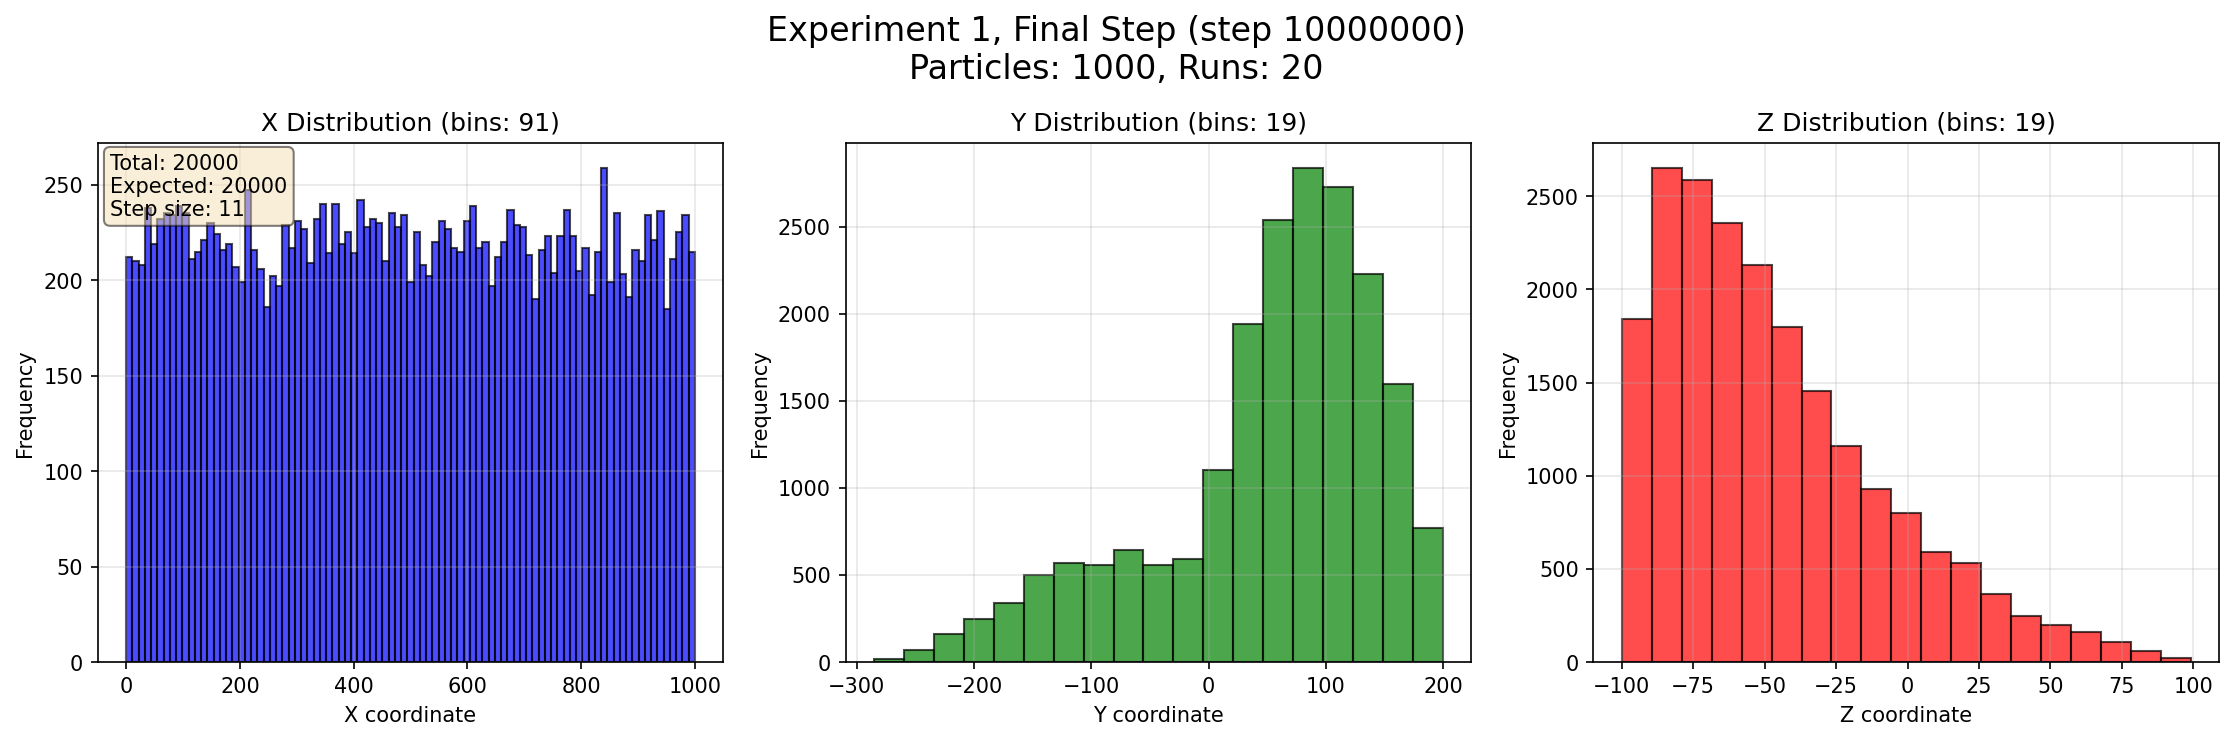
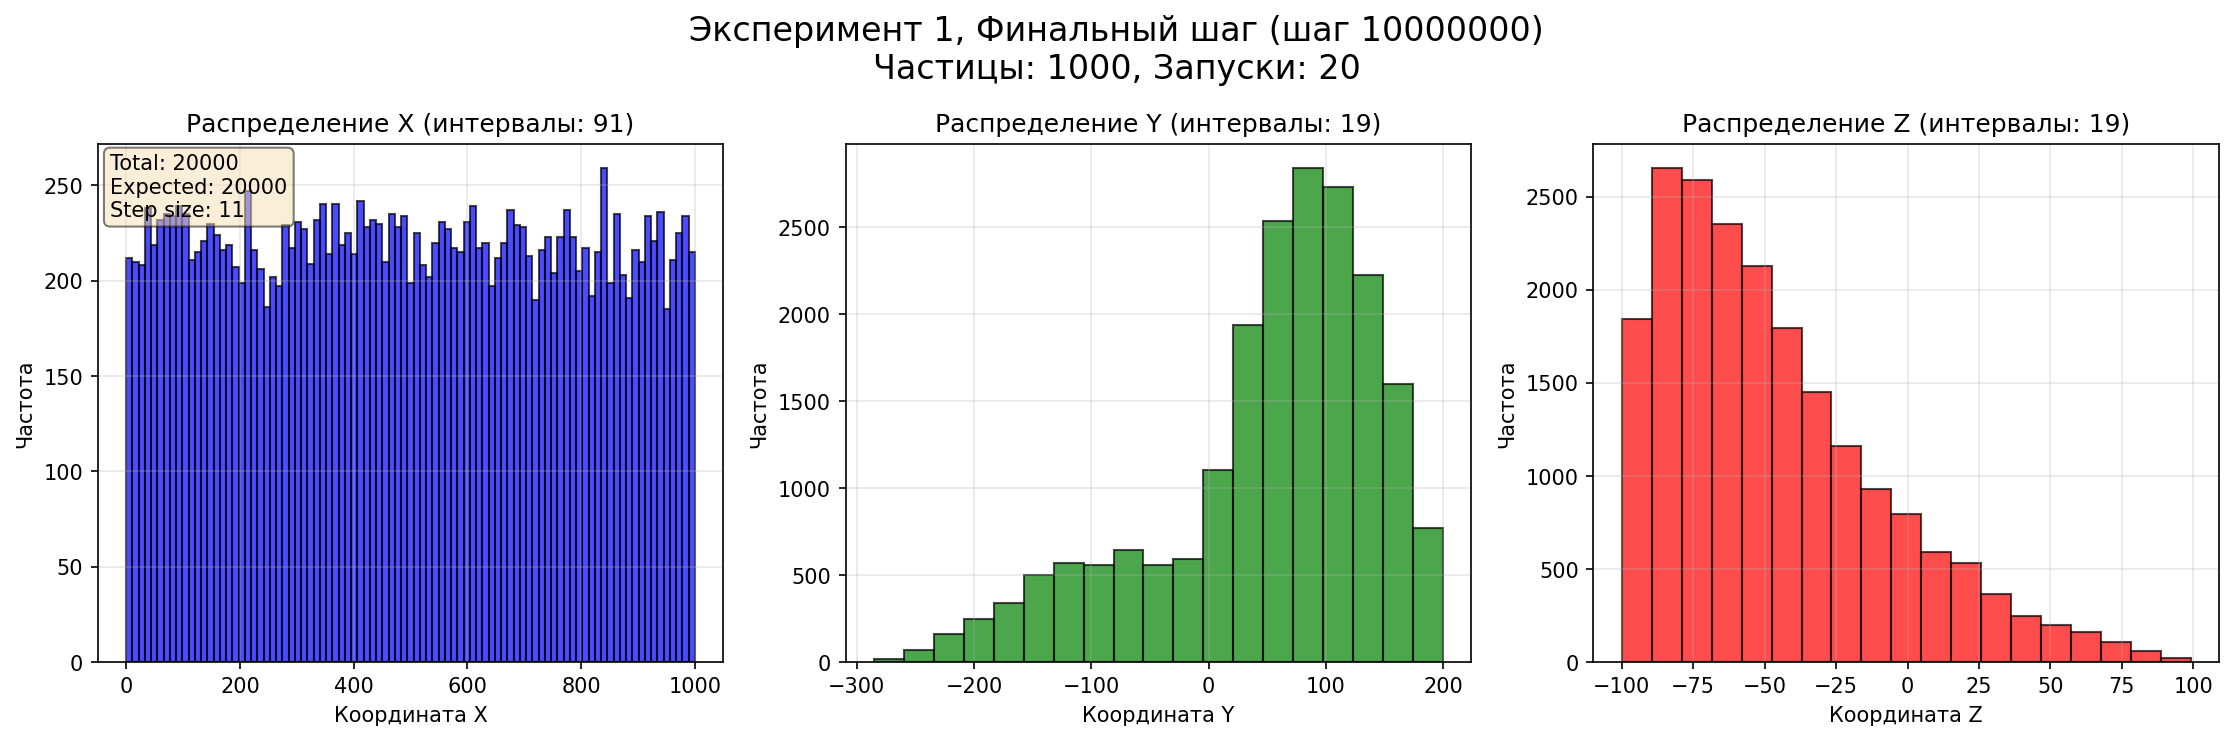
refactor(histogram): rename function and parameterize histogram creation
- Rename `create_histogram` to `create_histogram_with_params` for clarity
- Make all configuration parameters explicit function arguments instead of using global variables
- Change histogram loop to process steps in increments of 100,000 instead of every step
- Update plot labels from English to Russian
- Add error handling to skip failed steps silently

diff --git a/Statistics/Histogramm.py b/Statistics/Histogramm.py
@@ -71,12 +71,12 @@ def calculate_bins_count(min_val, max_val, step_size):
     return max(1, bins_count)  # минимум 1 интервал
 
 
-def create_histogram(step):
+def create_histogram_with_params(step, exp_id, particles_cnt, all_tries, mn_x, mx_x, mn_y, mx_y, mn_z, mx_z, cat_len):
     """
-    Строит гистограмму для указанного шага эксперимента
+    Строит гистограмму для указанного шага эксперимента с передаваемыми параметрами
     """
     # Создаем директорию для сохранения, если её нет
-    save_dir = f"../images/Experiment_{experiment_id}/Hist"
+    save_dir = f"../images/Experiment_{exp_id}/Hist"
     os.makedirs(save_dir, exist_ok=True)
     
     # Собираем все координаты частиц для данного шага по всем запускам
@@ -84,7 +84,7 @@ def create_histogram(step):
     all_y = []
     all_z = []
     
-    for try_id in all_try:
+    for try_id in all_tries:
         # Определяем путь к файлу с данными
         if step == mx_step:  # Финальное положение частиц
             file_path = f"../Experiments/exp_{try_id}.txt"
@@ -108,47 +108,47 @@ def create_histogram(step):
                     continue
     
     # Рассчитываем количество интервалов для каждой оси
-    x_bins_count = calculate_bins_count(mn_x, mx_x, category_len)
-    y_bins_count = calculate_bins_count(mn_y, mx_y, category_len)
-    z_bins_count = calculate_bins_count(mn_z, mx_z, category_len)
+    x_bins_count = calculate_bins_count(mn_x, mx_x, cat_len)
+    y_bins_count = calculate_bins_count(mn_y, mx_y, cat_len)
+    z_bins_count = calculate_bins_count(mn_z, mx_z, cat_len)
     
     # Создаем фигуру с тремя подграфиками
     fig, axes = plt.subplots(1, 3, figsize=(15, 5))
     if step == mx_step:
-        fig.suptitle(f'Experiment {experiment_id}, Final Step (step {step})\nParticles: {particles_count}, Runs: {len(all_try)}', 
+        fig.suptitle(f'Эксперимент {exp_id}, Финальный шаг (шаг {step})\nЧастицы: {particles_cnt}, Запуски: {len(all_tries)}', 
                      fontsize=16)
     else:
-        fig.suptitle(f'Experiment {experiment_id}, Step {step}\nParticles: {particles_count}, Runs: {len(all_try)}', 
+        fig.suptitle(f'Эксперимент {exp_id}, Шаг {step}\nЧастицы: {particles_cnt}, Запуски: {len(all_tries)}', 
                      fontsize=16)
     
     # Строим гистограмму для X координат
     axes[0].hist(all_x, bins=x_bins_count, alpha=0.7, color='blue', edgecolor='black')
-    axes[0].set_xlabel('X coordinate')
-    axes[0].set_ylabel('Frequency')
-    axes[0].set_title(f'X Distribution (bins: {x_bins_count})')
+    axes[0].set_xlabel('Координата X')
+    axes[0].set_ylabel('Частота')
+    axes[0].set_title(f'Распределение X (интервалы: {x_bins_count})')
     axes[0].grid(True, alpha=0.3)
     
     # Строим гистограмму для Y координат
     axes[1].hist(all_y, bins=y_bins_count, alpha=0.7, color='green', edgecolor='black')
-    axes[1].set_xlabel('Y coordinate')
-    axes[1].set_ylabel('Frequency')
-    axes[1].set_title(f'Y Distribution (bins: {y_bins_count})')
+    axes[1].set_xlabel('Координата Y')
+    axes[1].set_ylabel('Частота')
+    axes[1].set_title(f'Распределение Y (интервалы: {y_bins_count})')
     axes[1].grid(True, alpha=0.3)
     
     # Строим гистограмму для Z координат
     axes[2].hist(all_z, bins=z_bins_count, alpha=0.7, color='red', edgecolor='black')
-    axes[2].set_xlabel('Z coordinate')
-    axes[2].set_ylabel('Frequency')
-    axes[2].set_title(f'Z Distribution (bins: {z_bins_count})')
+    axes[2].set_xlabel('Координата Z')
+    axes[2].set_ylabel('Частота')
+    axes[2].set_title(f'Распределение Z (интервалы: {z_bins_count})')
     axes[2].grid(True, alpha=0.3)
     
     # Добавляем информацию о количестве частиц и размере интервала
     total_particles = len(all_x)
-    expected_particles = particles_count * len(all_try)
+    expected_particles = particles_cnt * len(all_tries)
     
     info_text = (f'Total: {total_particles}\n'
                  f'Expected: {expected_particles}\n'
-                 f'Step size: {category_len}')
+                 f'Step size: {cat_len}')
     
     axes[0].text(0.02, 0.98, info_text, 
                  transform=axes[0].transAxes, verticalalignment='top',
@@ -158,7 +158,7 @@ def create_histogram(step):
     
     # Сохраняем гистограмму
     if step == mx_step:
-        save_path = os.path.join(f"../images/Experiment_{experiment_id}/", f'final_dist.png')
+        save_path = os.path.join(f"../images/Experiment_{exp_id}/", f'final_dist.png')
         plt.savefig(save_path, dpi=150, bbox_inches='tight')
         save_path = os.path.join(save_dir, f'step_{step}.png')
         plt.savefig(save_path, dpi=150, bbox_inches='tight')
@@ -169,6 +169,8 @@ def create_histogram(step):
     plt.close()
     print(f"Гистограмма для шага {step} сохранена: {save_path}")
     print(f"  Интервалы: X={x_bins_count}, Y={y_bins_count}, Z={z_bins_count}")
+
+
 
 
 def create_all_histograms():
@@ -183,13 +185,12 @@ def create_all_histograms():
     print(f"Размер интервала (category_len): {category_len}")
     print(f"Диапазоны: X=[{mn_x:.2f}, {mx_x:.2f}], Y=[{mn_y:.2f}, {mx_y:.2f}], Z=[{mn_z:.2f}, {mx_z:.2f}]")
     
-    # Строим гистограммы для всех шагов
-    # Шаги начинаются с 0 и идут до mx_step (включительно)
-    for step in range(mx_step + 1):
+    # Последовательно обрабатываем все шаги
+    for step in range(100000, mx_step + 1, 100000):
         try:
-            create_histogram(step)
+            create_histogram_with_params(step, experiment_id, particles_count, all_try, mn_x, mx_x, mn_y, mx_y, mn_z, mx_z, category_len)
         except Exception as e:
-            ''
+            pass
     
     print("Построение всех гистограмм завершено!")
 